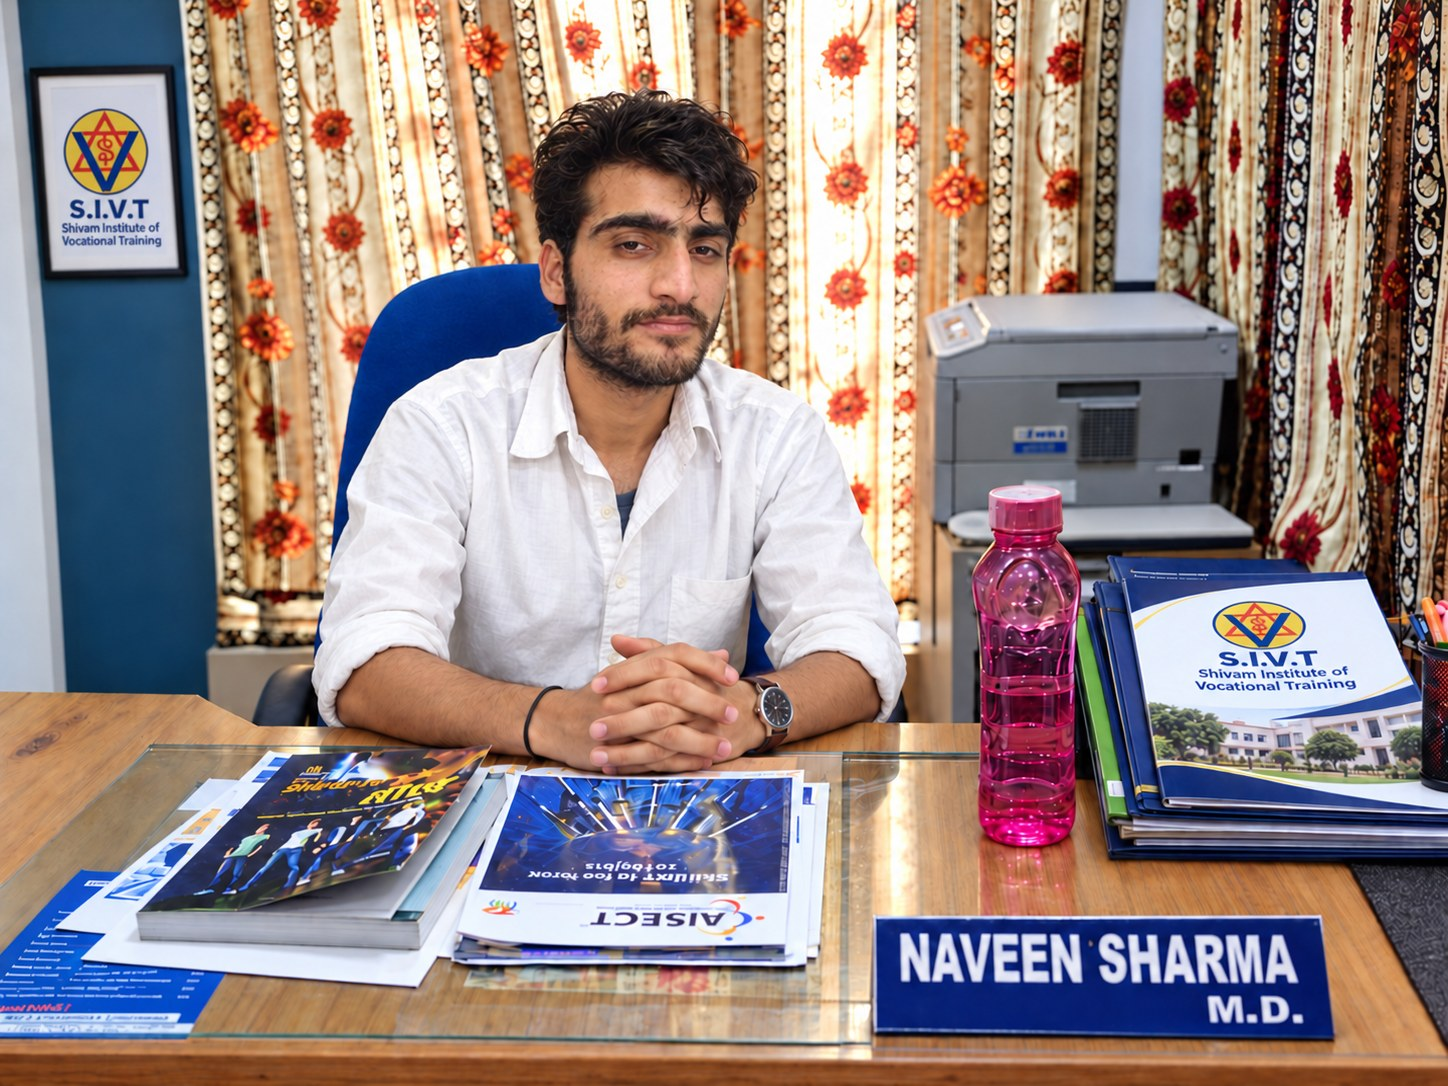
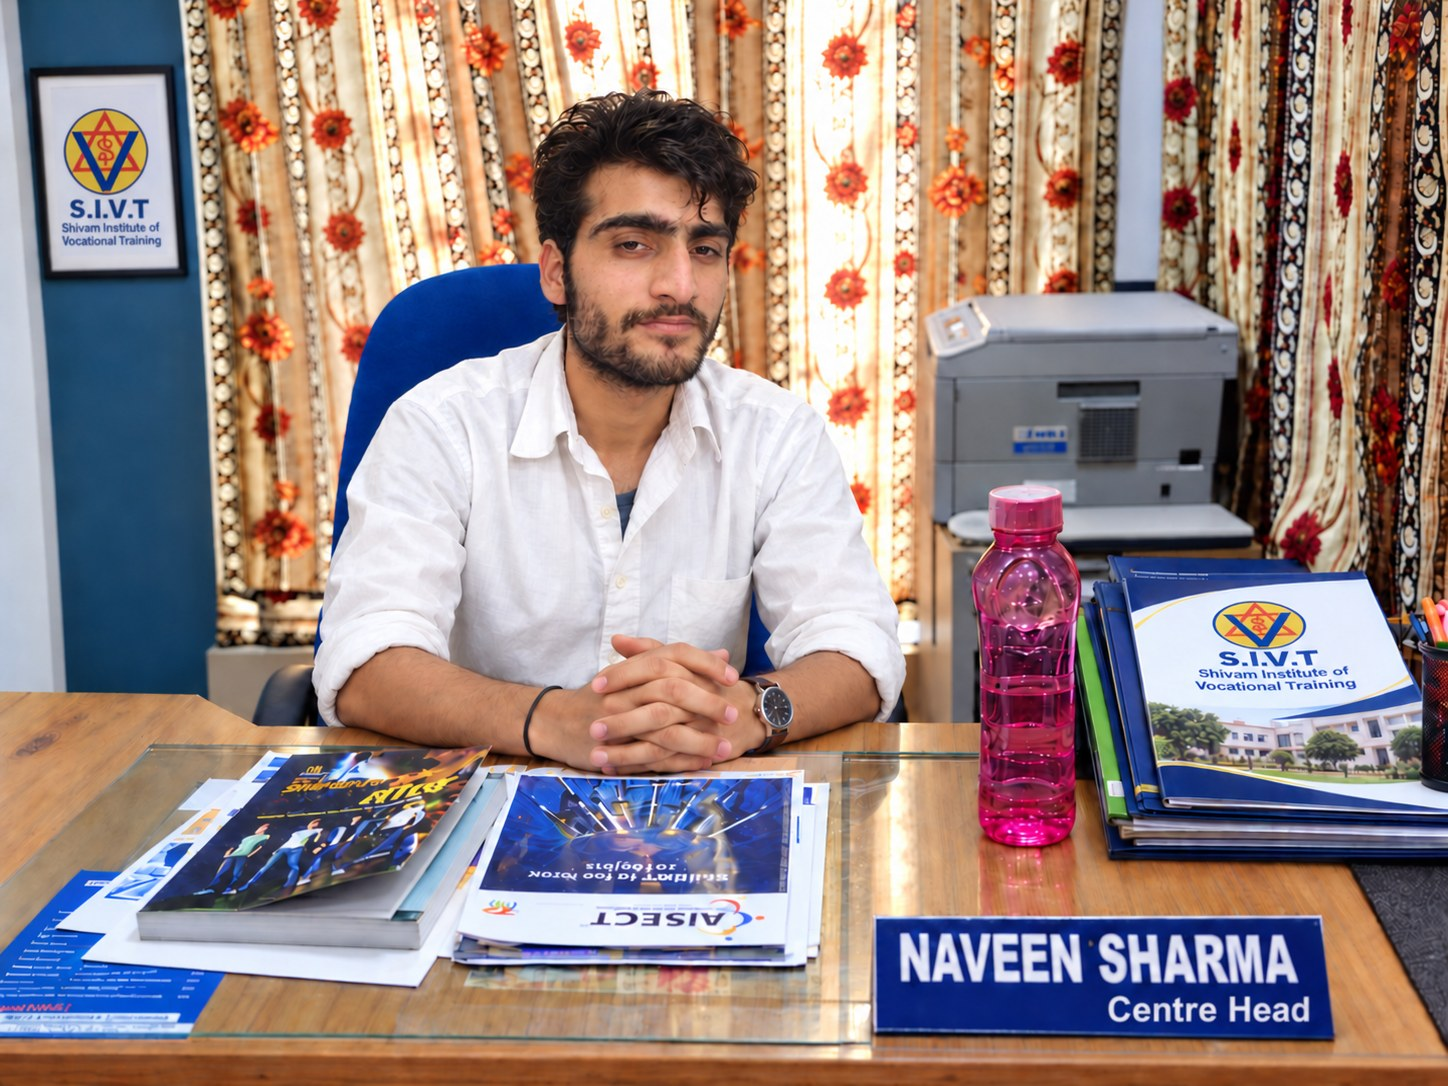
Use Centre Head title and updated office nameplate for Shivam

diff --git a/public/institute-demo.html b/public/institute-demo.html
@@ -1,10 +1,10 @@
 <!doctype html>
-<html lang="en"><head><meta charset="utf-8"><meta name="viewport" content="width=device-width,initial-scale=1"><title>Shivam Institute · Management Experience · Naveen Sharma</title><meta name="description" content="Naveen Sharma's experience as Managing Director and Franchise Owner of Shivam Institute of Vocational Training: academy management, daily operations and lab coordination."><link rel="stylesheet" href="/experience-demo.css"><style>.experience-intro{max-width:860px;margin-bottom:32px}.experience-intro h1{font-size:clamp(32px,5vw,58px)}.duties{display:grid;grid-template-columns:1fr 1fr;gap:16px;margin:24px 0 38px}.duties article{padding:22px;border:1px solid var(--line);background:white;border-radius:18px}.duties h3{font-size:17px}.duties p{font-size:14px;color:var(--muted);margin-bottom:0}.academy-gallery{display:grid;gap:32px}.academy-gallery figure{margin:0;padding:20px;background:white;border:1px solid var(--line);border-radius:22px}.academy-gallery figcaption{margin-bottom:16px;font-family:Manrope,sans-serif;font-size:21px;font-weight:700}.academy-gallery img{display:block;width:100%;height:auto;max-height:none;object-fit:contain;border-radius:14px}.photo-note{font-size:11px;color:var(--muted);margin-top:24px}@media(max-width:700px){.duties{grid-template-columns:1fr}.academy-gallery figure{padding:12px}.academy-gallery figcaption{font-size:18px}.brand{font-size:12px}}</style></head>
+<html lang="en"><head><meta charset="utf-8"><meta name="viewport" content="width=device-width,initial-scale=1"><title>Shivam Institute · Management Experience · Naveen Sharma</title><meta name="description" content="Naveen Sharma's experience as Centre Head and Franchise Owner of Shivam Institute of Vocational Training: academy management, daily operations and lab coordination."><link rel="stylesheet" href="/experience-demo.css"><style>.experience-intro{max-width:860px;margin-bottom:32px}.experience-intro h1{font-size:clamp(32px,5vw,58px)}.duties{display:grid;grid-template-columns:1fr 1fr;gap:16px;margin:24px 0 38px}.duties article{padding:22px;border:1px solid var(--line);background:white;border-radius:18px}.duties h3{font-size:17px}.duties p{font-size:14px;color:var(--muted);margin-bottom:0}.academy-gallery{display:grid;gap:32px}.academy-gallery figure{margin:0;padding:20px;background:white;border:1px solid var(--line);border-radius:22px}.academy-gallery figcaption{margin-bottom:16px;font-family:Manrope,sans-serif;font-size:21px;font-weight:700}.academy-gallery img{display:block;width:100%;height:auto;max-height:none;object-fit:contain;border-radius:14px}.photo-note{font-size:11px;color:var(--muted);margin-top:24px}@media(max-width:700px){.duties{grid-template-columns:1fr}.academy-gallery figure{padding:12px}.academy-gallery figcaption{font-size:18px}.brand{font-size:12px}}</style></head>
 <body class="institute"><header><a class="brand" href="/"><span class="monogram">NS</span>Naveen Sharma / Experience</a><a class="back" href="/#experience">← Back to Experience</a></header>
-<main class="shell"><section class="experience-intro"><div class="eyebrow">Shivam Institute of Vocational Training · Dharamshala, India</div><h1>Managing Director<br><span>& Franchise Owner</span></h1><p class="lede">Managed the academy and its day-to-day operations, coordinating students, course schedules, fees and computer-lab resources.</p></section>
+<main class="shell"><section class="experience-intro"><div class="eyebrow">Shivam Institute of Vocational Training · Dharamshala, India</div><h1>Centre Head<br><span>& Franchise Owner</span></h1><p class="lede">Managed the academy and its day-to-day operations, coordinating students, course schedules, fees and computer-lab resources.</p></section>
 <section aria-label="Management responsibilities"><h2>My responsibilities</h2><div class="duties"><article><h3>Academy management</h3><p>Oversaw day-to-day institute operations and coordinated the activities needed to keep the centre running.</p></article><article><h3>Student & fee coordination</h3><p>Managed student coordination, fee administration and the daily office work supporting academy operations.</p></article><article><h3>Schedules & course operations</h3><p>Coordinated class schedules and course-related arrangements as part of managing the institute.</p></article><article><h3>Computer-lab operations</h3><p>Managed lab resources and operational readiness so students could use the facilities for their courses.</p></article></div></section>
 <section class="academy-gallery" aria-label="Academy photos">
 <figure><figcaption>01 / Academy exterior</figcaption><img src="/experience-evidence/shivam-frontage-enhanced.jpg" alt="S.I.V.T academy exterior with branch signage and course information"></figure>
-<figure><figcaption>02 / My office</figcaption><img src="/experience-evidence/shivam-office-enhanced.jpg" alt="Naveen Sharma at the academy office desk with his Managing Director nameplate"></figure>
+<figure><figcaption>02 / My office</figcaption><img src="/experience-evidence/shivam-office-enhanced.jpg" alt="Naveen Sharma at the academy office desk with his Centre Head nameplate"></figure>
 <figure><figcaption>03 / Computer lab</figcaption><img src="/experience-evidence/shivam-lab-enhanced.jpg" alt="S.I.V.T computer lab with full course and affiliation banner; student faces obscured"></figure>
 </section><p class="photo-note">Photos refreshed for presentation; the office portrait is recreated from academy-era references. Student faces are obscured for privacy.</p></main></body></html>

diff --git a/src/App.jsx b/src/App.jsx
@@ -197,7 +197,7 @@ export default function App() {
               {[
                 { demoHref: "/intake-builder-demo", demoLabel: "Try intake & mapping demo", company: "BOLT Healthcare", role: "SaaS implementation & workflow configuration", context: "B2B contractor · Customer Success · August 2022–May 2026", points: ["Configured dynamic intake and document workflows, field mappings, labels and conditional inputs.", "Validated generated outputs, tested workflow behavior and troubleshot configuration issues.", "Coordinated tasks and technical handoffs through Basecamp; supported colleagues with configuration work.", "Worked with API/JSON mapping and HHAeXchange-related configuration."] },
                 { demoHref: "/manufacturing-demo", demoLabel: "Explore manufacturing demo", company: "Vishay Intertechnology", role: "Manufacturing / technical operator", context: "Chip-resistor production · Be’er Sheva, Israel", points: ["Operated equipment in chip-resistor manufacturing.", "Built a practical foundation in following production procedures and working carefully with technical systems."] },
-                { demoHref: "/institute-demo", demoLabel: "View academy experience", company: "Shivam Institute of Vocational Training", role: "Managing Director & Franchise Owner", context: "Academy management · Dharamshala, India", points: ["Managed day-to-day academy and franchise operations.", "Coordinated students, fees, class schedules and course operations.", "Managed computer-lab resources and operational readiness."] },
+                { demoHref: "/institute-demo", demoLabel: "View academy experience", company: "Shivam Institute of Vocational Training", role: "Centre Head & Franchise Owner", context: "Academy management · Dharamshala, India", points: ["Managed day-to-day academy and franchise operations.", "Coordinated students, fees, class schedules and course operations.", "Managed computer-lab resources and operational readiness."] },
               ].map(({ company, role, context, points, demoHref, demoLabel }) => <article key={company} className="rounded-3xl border border-[#172321]/10 bg-[#f6f7f4] p-6"><p className="text-sm font-semibold text-[#71807b]">{company}</p><h3 className="mt-2 text-xl font-semibold">{role}</h3><p className="mt-3 text-xs leading-6 text-[#52615c]">{context}</p><ul className="mt-5 space-y-3">{points.map(point => <li key={point} className="border-t border-[#172321]/10 pt-3 text-sm leading-6 text-[#52615c]">{point}</li>)}</ul><a href={demoHref} className="mt-6 inline-flex items-center gap-2 rounded-full bg-[#172321] px-5 py-3 text-sm font-semibold text-[#c5f16b]">{demoLabel} <ArrowUpRight size={16}/></a></article>)}
             </div>
           </div>
